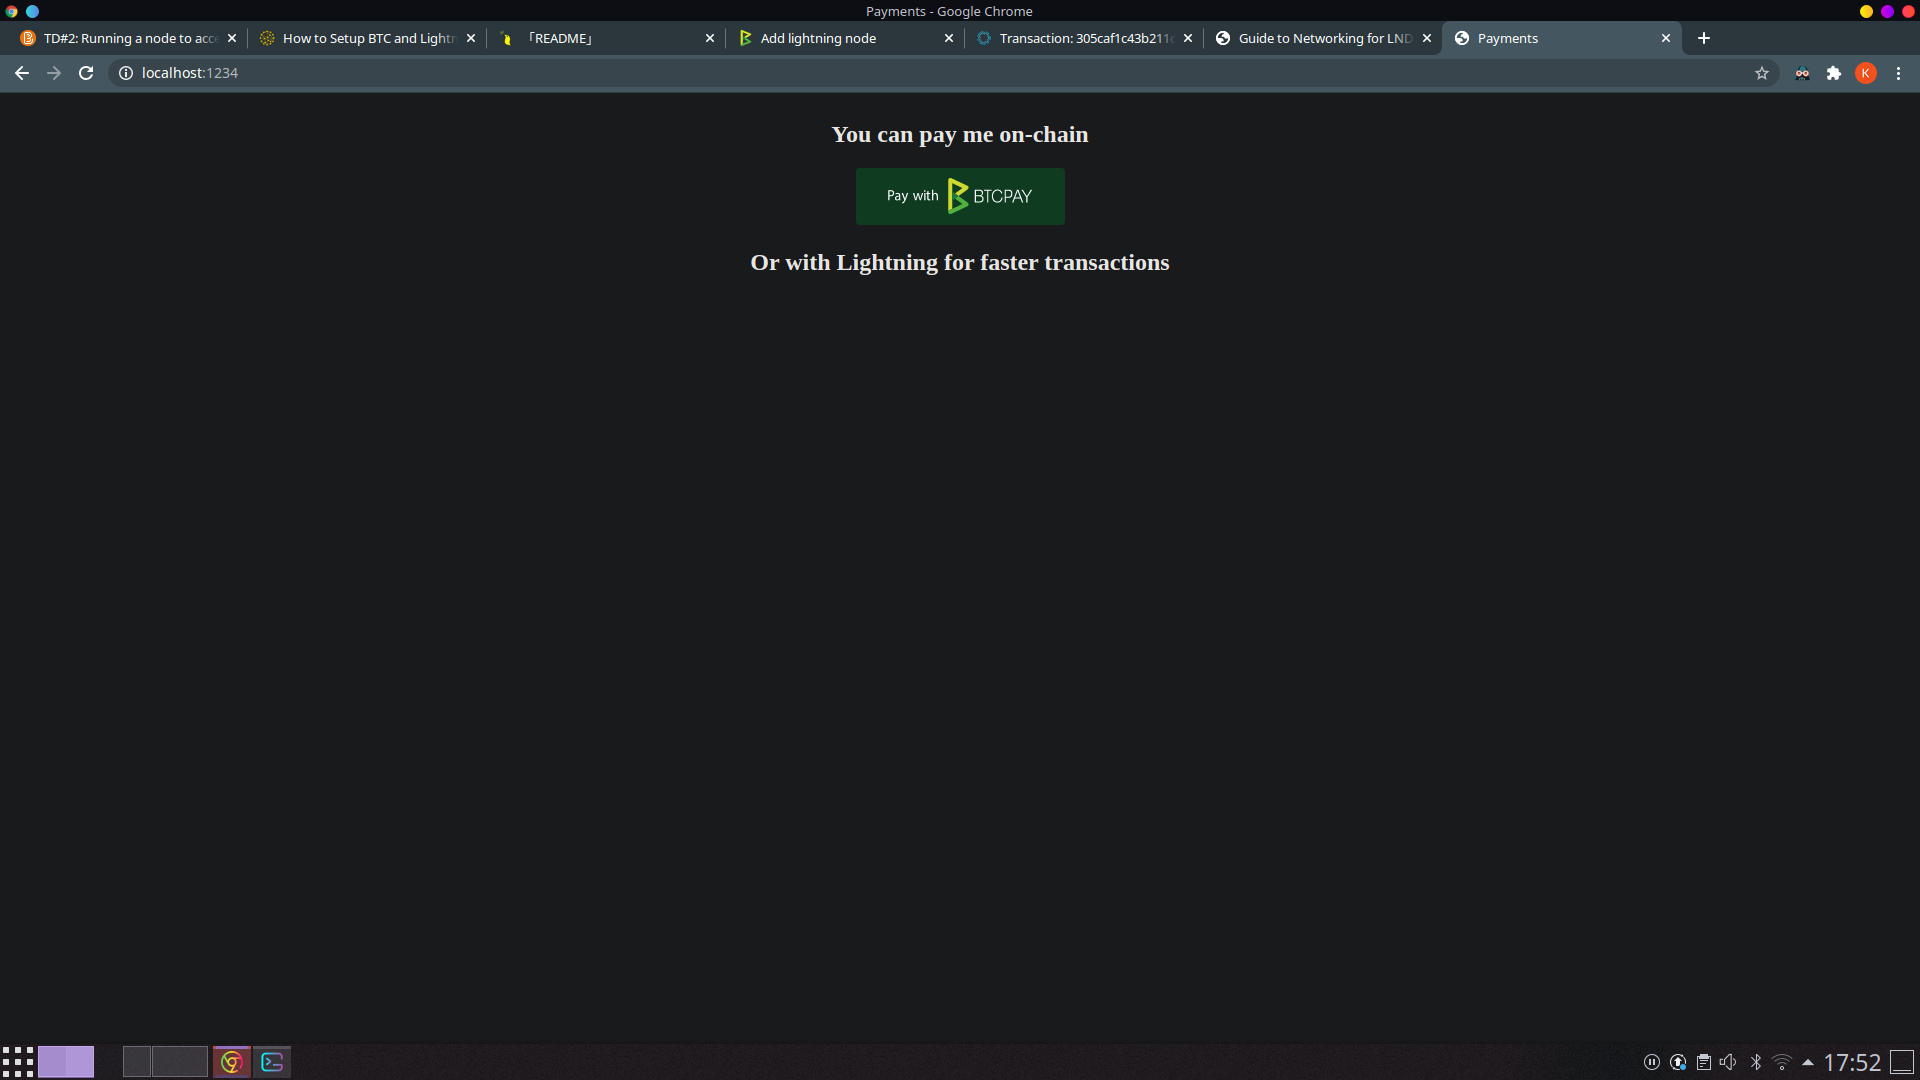
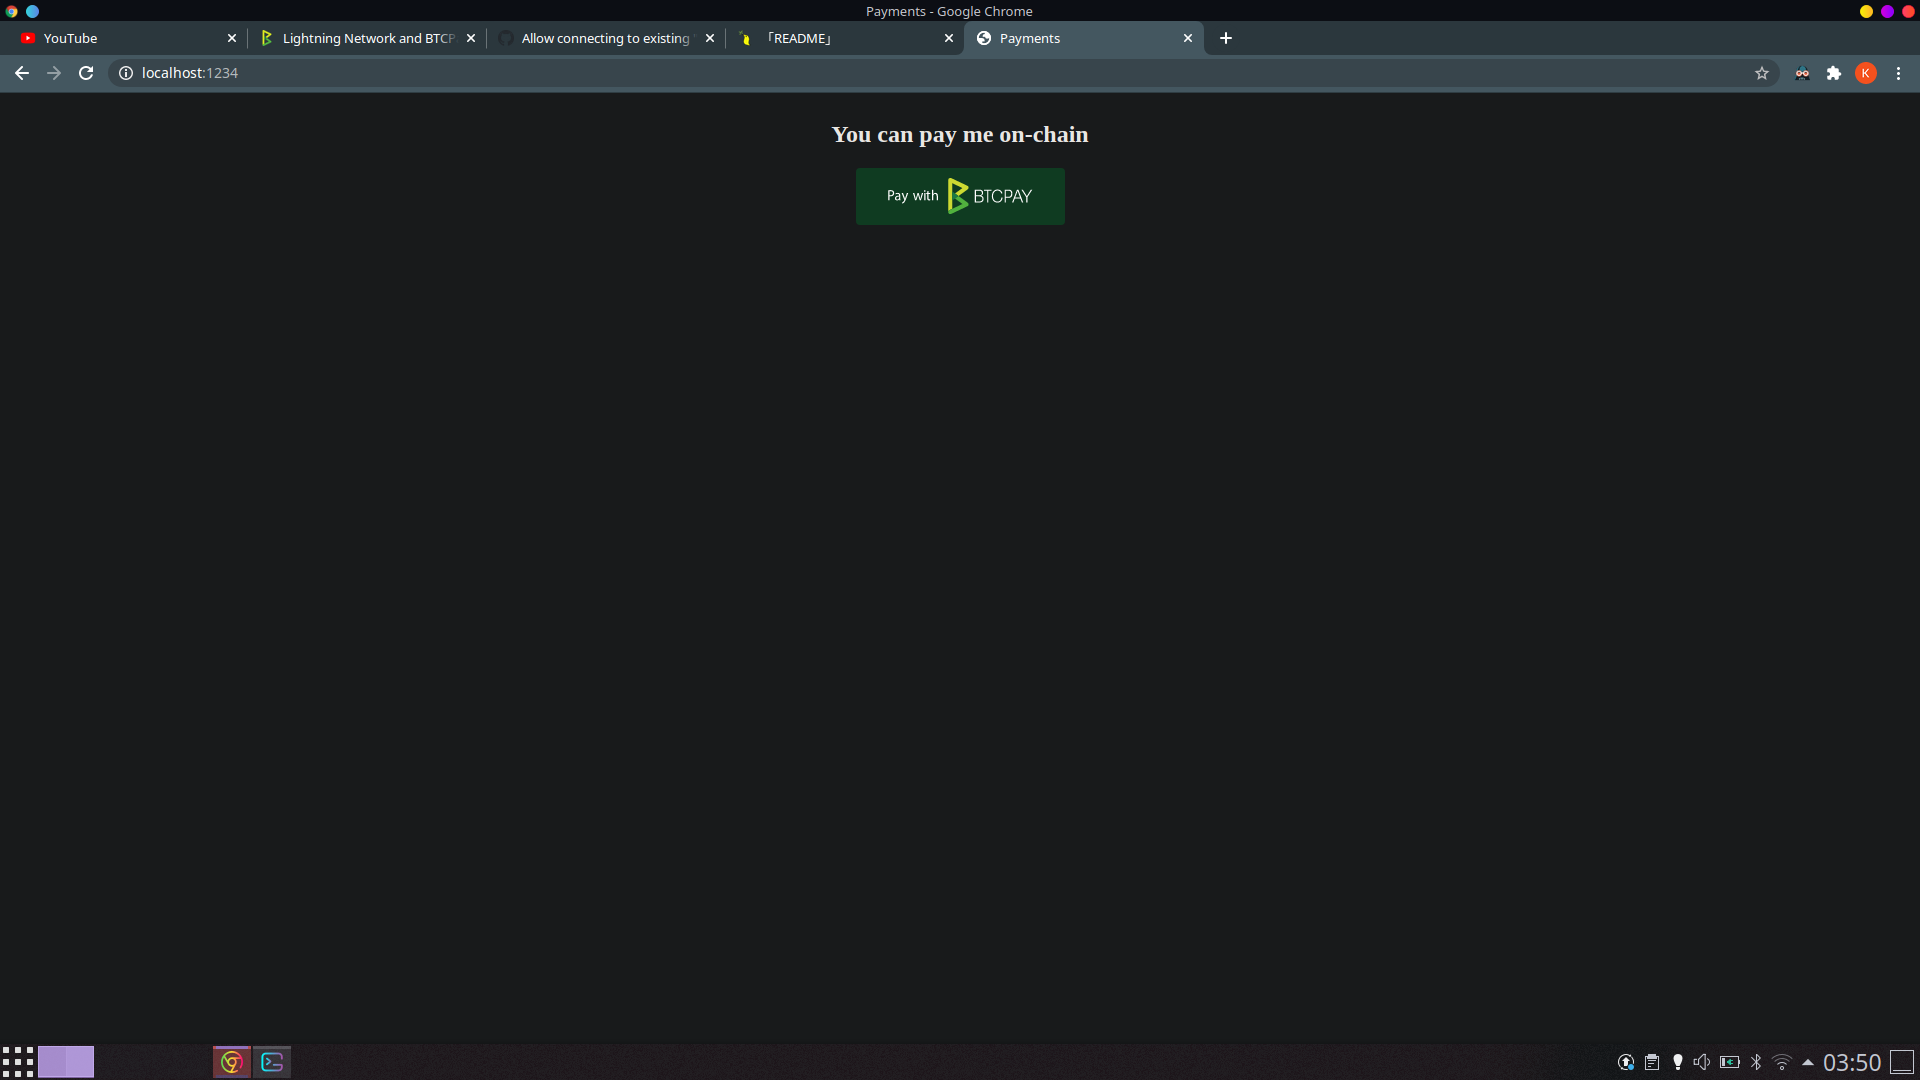
minor changes: update README + interface

diff --git a/td2/interface/src/App.jsx b/td2/interface/src/App.jsx
@@ -17,7 +17,6 @@ export default () => {
         <input type="hidden" name="currency" value="USD" />
         <input type="image" src="http://localhost:8080/img/paybutton/pay.svg"></input>
       </form>
-      <h2>Or with Lightning for faster transactions</h2>
     </div>
   );
 };

diff --git a/td2/README.md b/td2/README.md
@@ -2,7 +2,7 @@
 
 This PW follows this [tutorial](https://docs.btcpayserver.org/ManualDeployment/).
 
-The objectives of this PW is to plug in [BTCPay server](https://github.com/btcpayserver/btcpayserver) on top of our bitcoin node we set up previously in the [PW1](https://github.com/krouspy/monnaies-numeriques/tree/master/td1). By using this tool, we will be able to receive and secure payments on-chain and off-chain without any third-party. We will also install [NBXplorer](https://github.com/dgarage/NBXplorer), an UTXO tracker and finally, we will create a very simple interface in React.
+The objectives of this PW is to plug in [BTCPay server](https://github.com/btcpayserver/btcpayserver) on top of our bitcoin node we set up previously in the [PW1](https://github.com/krouspy/monnaies-numeriques/tree/master/td1) in order to receive and secure payments on-chain and off-chain without any third-party. We will also install [NBXplorer](https://github.com/dgarage/NBXplorer), an UTXO tracker and finally, we will create a very simple interface in React.
 
 ### Environment
 
@@ -466,9 +466,7 @@ Now you can run `yarn start` and we can check the interface at `localhost:1234`.
 
 ![alt front](./assets/front.png 'Front')
 
-The green button corresponds to the Pay Button for on-chain payments and clicking on it will create an invoice.
-
-_**Note**: The lightning button is not still here, we will check it later._
+The green button corresponds to the Pay Button, clicking on it will create an invoice.
 
 Previously, in the PW1, we deposited some tBTC on our bitcoin node so we can use it to pay the invoice.
 
@@ -525,13 +523,23 @@ autopilot.maxchannels=5
 autopilot.allocation=0.6
 ```
 
-Now go to your `Store settings > Lightning nodes > Modify > Connection string`
-
-Get the `certthumbprint`
+Recreate the lnd `certthumbprint`.
 
 ```bash
+$ sudo supervisorctl stop lnd
+$ rm ~/.lnd/tls.cert
+$ rm ~/.lnd/tls.key
+$ sudo supervisorctl start lnd
 $ openssl x509 -noout -fingerprint -sha256 -in .lnd/tls.cert | sed -e 's/.*=//;s/://g'
 ```
+
+And also unlock lnd.
+
+```bash
+$ lncli -n=testnet unlock
+```
+
+Now go to your `Store settings > Lightning nodes > Modify > Connection string`
 
 Then enter this for the connection string
 
@@ -540,3 +548,5 @@ Then enter this for the connection string
 Test Connection > Error while connecting to the API (The HTTP status code of the response was not expected (404).)
 
 Don't know how to fix this :( Maybe a dumb mistake. Make a PR if you know :)
+
+But normally, if it works you should see a lightning payment option in your invoice.
